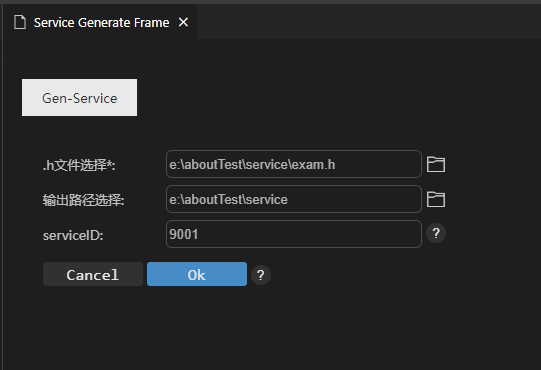
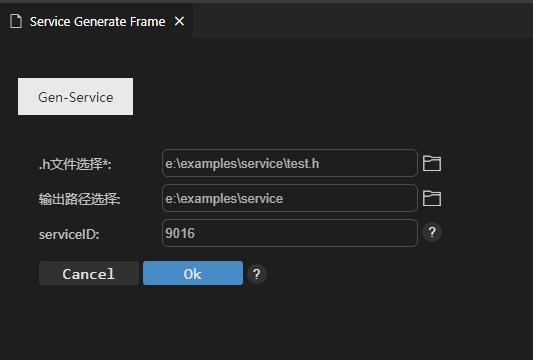
style: modify service tool docs

diff --git a/hdc/service/examples/test.h b/hdc/service/examples/test.h
@@ -1,0 +1,30 @@
+/*
+* Copyright (c) 2022 Shenzhen Kaihong Digital Industry Development Co., Ltd.
+* Licensed under the Apache License, Version 2.0 (the "License");
+* you may not use this file except in compliance with the License.
+* You may obtain a copy of the License at
+*
+* http://www.apache.org/licenses/LICENSE-2.0
+*
+* Unless required by applicable law or agreed to in writing, software
+* distributed under the License is distributed on an "AS IS" BASIS,
+* WITHOUT WARRANTIES OR CONDITIONS OF ANY KIND, either express or implied.
+* See the License for the specific language governing permissions and
+* limitations under the License.
+*/
+#ifndef TEST_H
+#define TEST_H
+
+namespace OHOS {
+    namespace Example {
+    /**
+     * @brief service服务，提供IPC调用接口
+     * @ServiceClass
+     */
+        class test {
+        public:
+            int testFunc(int v1, int v2, bool v3);
+        };
+    }  // namespace Example
+}  // namespace OHOS
+#endif  // TEST_H

diff --git a/hdc/service/docs/INSTRUCTION_ZH.md b/hdc/service/docs/INSTRUCTION_ZH.md
@@ -7,7 +7,7 @@ SERVICE框架生成工具支持三种入口，分别是可执行程序、VS Code
 
 下载文件说明如下：
 
-	│   │   |── service-gen-0.0.1.vsix                 # VS Code插件
+	│   │   |── service-gen-0.0.1.vsix             # VS Code插件
 	│   │   |── header_parser.exe                  # python脚本独立程序
 	│   │   |── header_parser                      # python脚本独立程序
 	│   │   |── service-gen-linux                  # Linux可执行程序 
@@ -32,11 +32,11 @@ SERVICE框架生成工具支持三种入口，分别是可执行程序、VS Code
 2.将待转换的.h文件放到任意目录下，建议放到可执行程序service-gen-linux与header_parser同级目录下，如下所示：
 
 	harmony@Ubuntu-64:~/service/napi_generator_8/hdc/service-gen/examples$ ls
-	exam.h  header_parser  service-gen-linux
+	test.h  header_parser  service-gen-linux
 
 3.在终端中进入到可执行程序service-gen-linux所在的目录，并运行service-gen-linux，命令如下：
 
-	harmony@Ubuntu-64:~/service/napi_generator_8/hdc/service-gen/examples$ ./service-gen-linux -f exam.h -o ./ -s 9001 
+	harmony@Ubuntu-64:~/service/napi_generator_8/hdc/service-gen/examples$ ./service-gen-linux -f test.h -o ./ -s 9016 
 
 其中,参数详情如下：
   -f，定义远程服务的.h文件；
@@ -47,24 +47,24 @@ SERVICE框架生成工具支持三种入口，分别是可执行程序、VS Code
 4.运行成功后会在当前目录下生成对应的文件，如下所示：
 
 	harmony@Ubuntu-64:~/service/napi_generator_8/hdc/service-gen/examples$ ls
-	exam.h  header_parser  napi_gen.log  service-gen-linux  testaservice
+	test.h  header_parser  napi_gen.log  service-gen-linux  testservice
 
 #### Windows
 
-1.下载python脚本可执行程序header_parser.exe与linux可执行程序service-gen-win.exe，下载链接如下：
+1.下载python脚本可执行程序header_parser.exe与windows可执行程序service-gen-win.exe，下载链接如下：
 
 [下载链接](暂无)
 
 2.将要转换的.h文件放到任意目录下，建议放到可执行程序service-gen-win.exe与header_parser.exe同级目录下，如下所示：
 
 	E:\demo\service>dir /B
-	exam.h
+	test.h
 	header_parser.exe
 	service-gen-win.exe
 
 3.在终端中进入到可执行程序service-gen-win.exe所在的目录，并运行service-gen-win.exe，命令如下：
 
-	E:\demo\service>service-gen-win.exe -f exam.h -o ./ -s 9001 
+	E:\demo\service>service-gen-win.exe -f test.h -o ./ -s 9016 
 
 其中,参数详情如下：
   -f，定义远程服务的.h文件；
@@ -75,11 +75,11 @@ SERVICE框架生成工具支持三种入口，分别是可执行程序、VS Code
 4.运行成功后会在当前目录下生成对应的文件，如下所示：
 
 	E:\demo\service>dir /B
-	exam.h
+	test.h
 	header_parser.exe
 	napi_gen.log
 	service-gen-win.exe
-	testaservice
+	testservice
 
 #### Mac
 

diff --git a/hdc/service/README_ZH.md b/hdc/service/README_ZH.md
@@ -56,28 +56,17 @@
 
 ### 工具输出
 
-根据使用者指定的.h头文件，工具会输出SERVICE框架代码。为了方便使用者快速上手工具，可供测试的.h文件内容如下所示：
+根据使用者指定的.h头文件，工具会输出SERVICE框架代码。为了方便使用者快速上手工具，可供测试的.h文件如下所示：
+
+[test.h](https://gitee.com/openharmony/napi_generator/tree/master/hdc/service/examples/test.h)
+
+注意：.h文件中待生成的主class必须加注释：@brief service服务，提供IPC调用接口 ，如下所示：
 
 ```
-
-	#ifndef EXAM_H
-	#define EXAM_H
-	using namespace std;
-
-	namespace OHOS{
-    	namespace Example{
-    	    /**
-            * @brief service服务，提供IPC调用接口
-            * @ServiceClass
-            */
-        	class Exam{
-        	public:
-            	std::string getServName();
-            	int32_t doSum(int32_t num1, int32_t num2);
-        	};
-    	}
-	} 
-	#endif
+/**
+ * @brief service服务，提供IPC调用接口
+ * @ServiceClass
+ */
 ```
 
 在window环境下的，根据输入.h文件生成的输出文件，如下所示：

diff --git a/docs/ENSEMBLE_METHOD_ZH.md b/docs/ENSEMBLE_METHOD_ZH.md
@@ -295,16 +295,6 @@
 }
 ```
 
-在vendor/hihope/rk3568/security_config/high_privilege_process_list.json中增加以下配置
-
-```
-  {
-            "name": "napitest",
-            "uid": "system",
-            "gid": ["root", "system"]
-  }
-```
-
 ### 编译验证
 
 编译成功后，就会在 /out/产品名/packages/phone/system/lib/module/ 生成libnapitest.z.so，如下所示：
